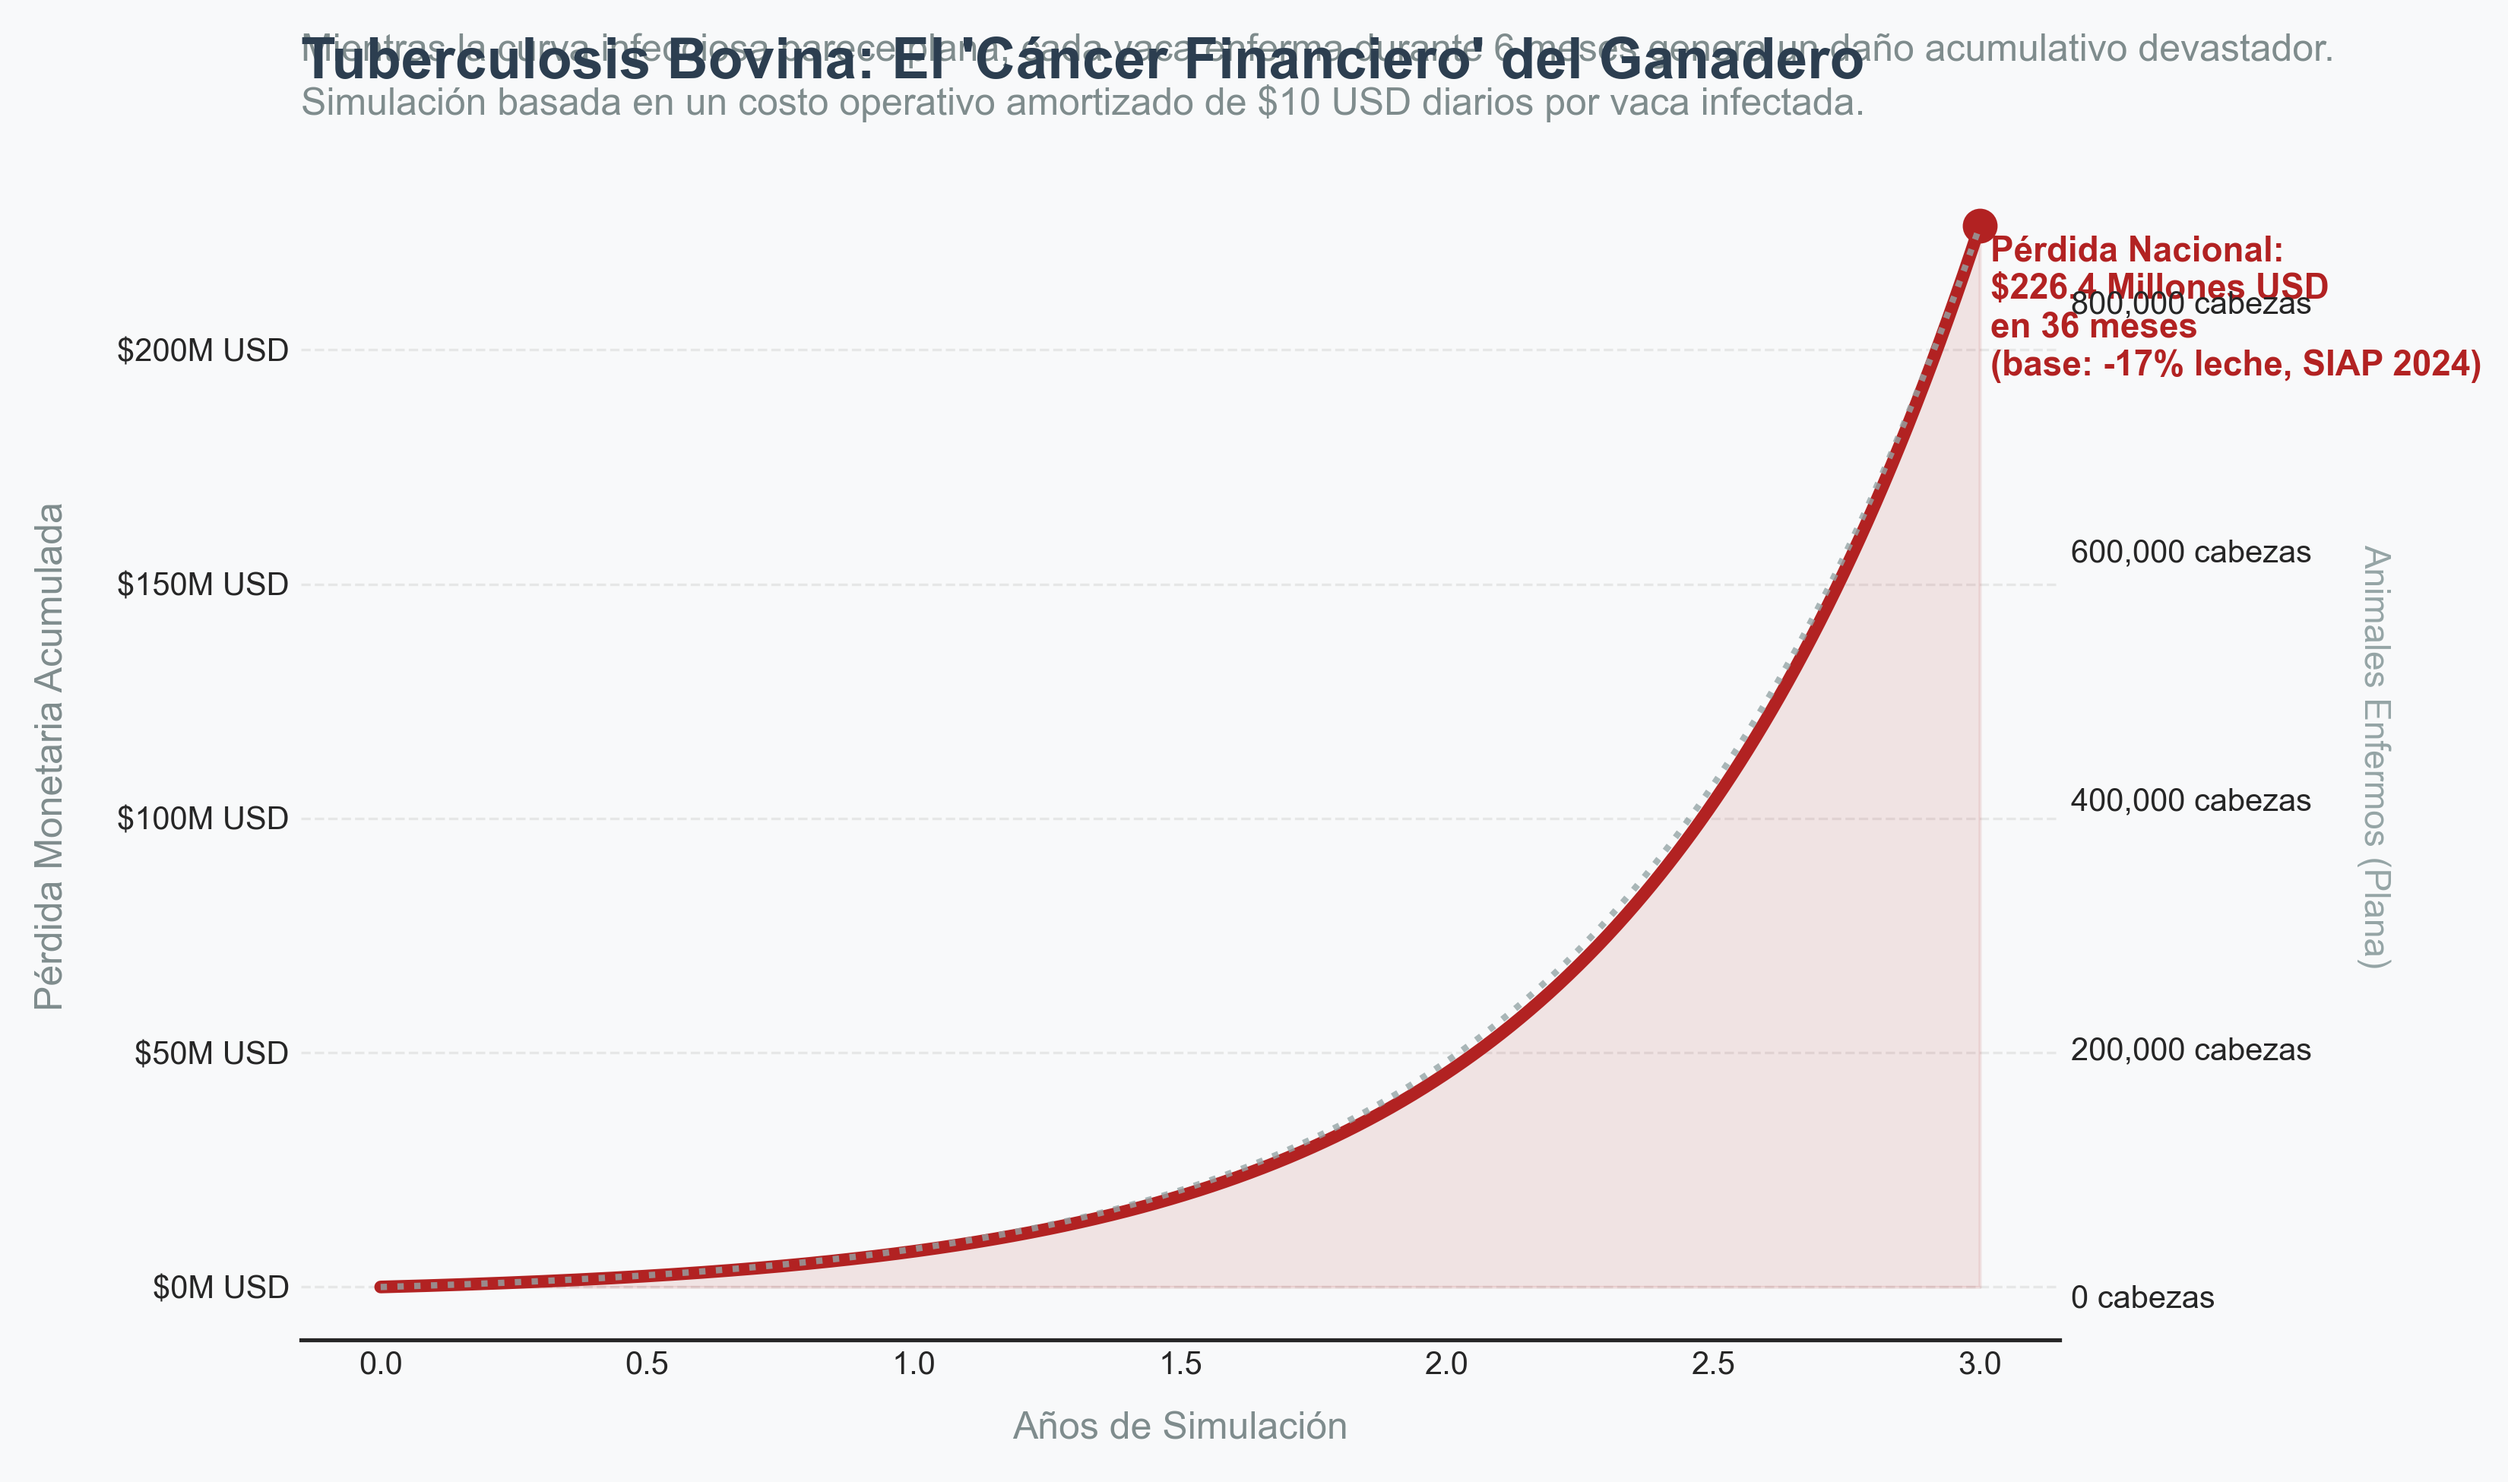
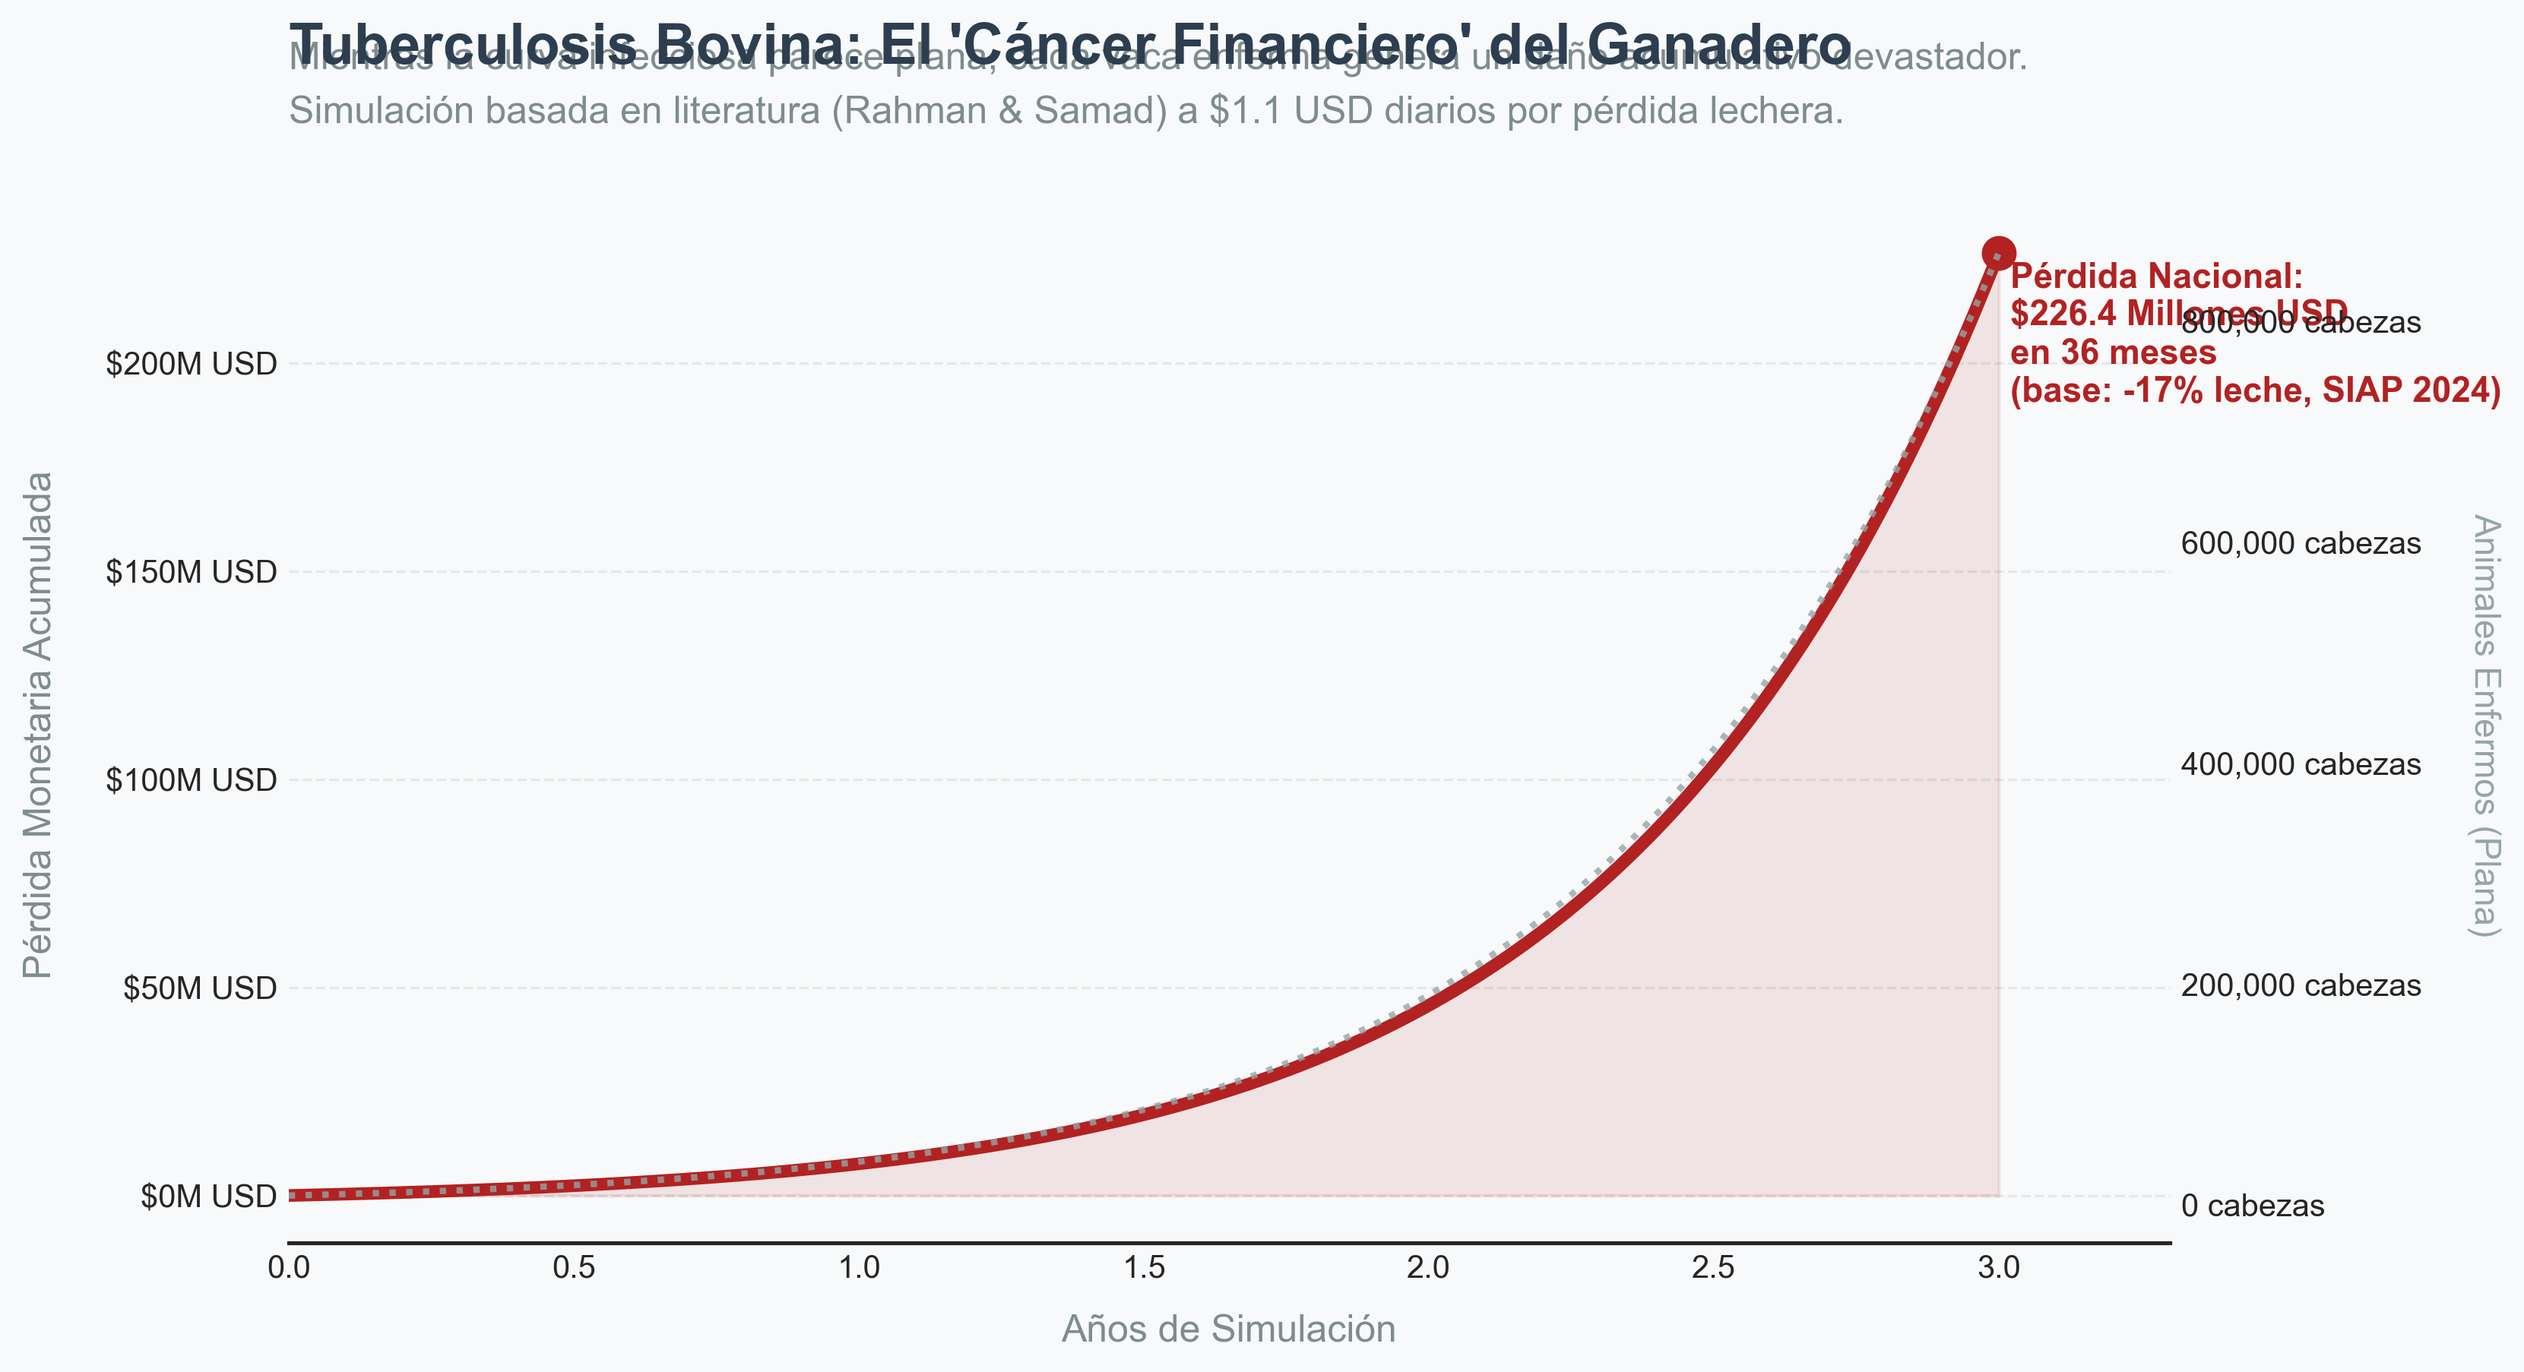
fix(docs): adjust matplotlib layout clipping for storytelling plot

diff --git a/src/models/tb_storytelling_plot.py b/src/models/tb_storytelling_plot.py
@@ -73,12 +73,15 @@ ax1.spines['left'].set_visible(False)
 ax1.spines['bottom'].set_color('#CCCCCC')
 ax1.grid(axis='y', linestyle='--', alpha=0.4)
 
-# Títulos y Explicaciones (Textos directos como manda Cole Nussbaumer Knaflic)
+# Títulos y Explicaciones
 ax1.set_title("Tuberculosis Bovina: El 'Cáncer Financiero' del Ganadero", 
-              fontsize=18, fontweight='bold', loc='left', pad=30, color='#2C3E50')
+              fontsize=18, fontweight='bold', loc='left', pad=45, color='#2C3E50')
 
-ax1.text(0, 1.05, "Mientras la curva infecciosa parece plana, cada vaca enferma durante 6 meses genera un daño acumulativo devastador.\nSimulación basada en un costo operativo amortizado de $10 USD diarios por vaca infectada.", 
+ax1.text(0, 1.08, "Mientras la curva infecciosa parece plana, cada vaca enferma genera un daño acumulativo devastador.\nSimulación basada en literatura (Rahman & Samad) a $1.1 USD diarios por pérdida lechera.", 
          transform=ax1.transAxes, fontsize=12, color='#7F8C8D', linespacing=1.5)
+
+# Expandir límite X para que quepa la anotación final
+ax1.set_xlim(0, 3.3)
 
 # Formateo de Ejes
 ax1.set_xlabel('Años de Simulación', fontsize=12, color='#7F8C8D', labelpad=10)
@@ -100,8 +103,8 @@ ax2.spines['right'].set_visible(False)
 ax2.set_ylabel('Animales Enfermos (Plana)', fontsize=11, color='#95A5A6', rotation=270, labelpad=25)
 ax2.yaxis.set_major_formatter(ticker.StrMethodFormatter('{x:,.0f} cabezas'))
 
-plt.tight_layout()
+plt.subplots_adjust(top=0.85, bottom=0.15, right=0.85, left=0.1)
 os.makedirs('docs/figures', exist_ok=True)
 out_path = 'docs/figures/tb_impacto_financiero.png'
-plt.savefig(out_path, dpi=300, facecolor=fig.get_facecolor(), edgecolor='none')
+plt.savefig(out_path, dpi=300, facecolor=fig.get_facecolor(), edgecolor='none', bbox_inches='tight')
 print(f"✅ Gráfica Big 4 generada: {out_path}")
